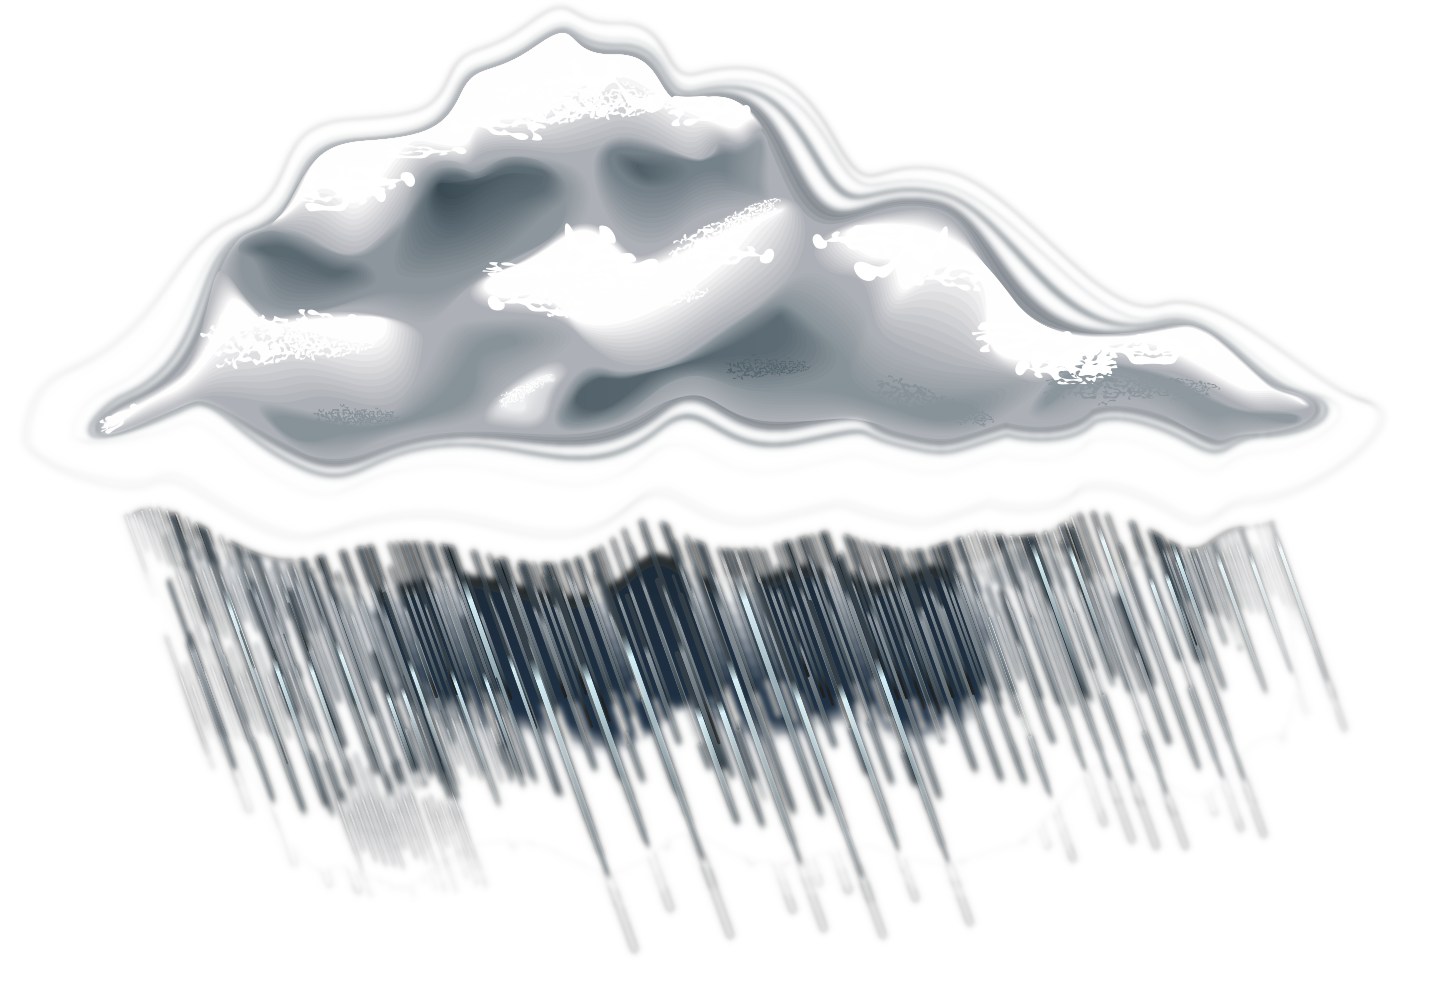
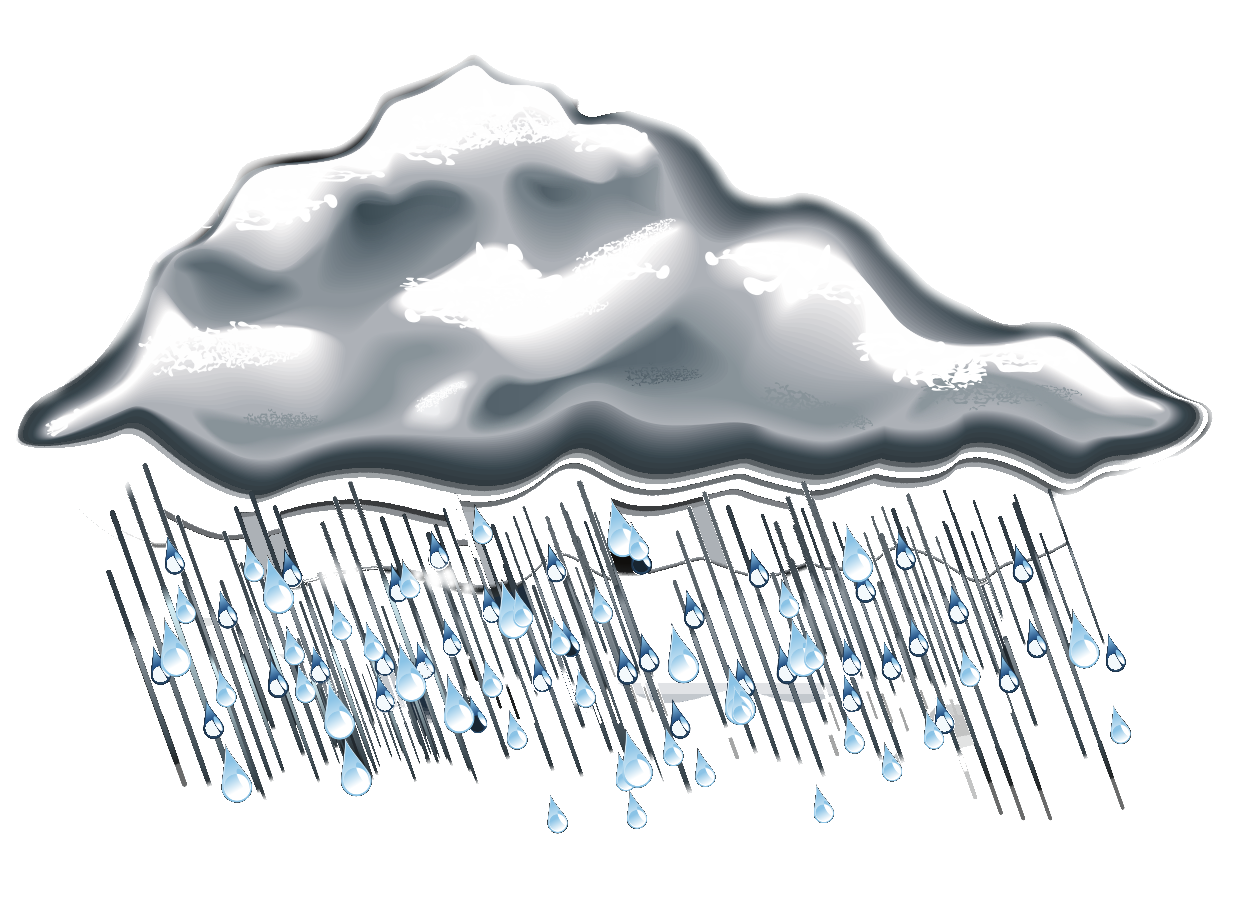
update rainfall and stats_body

diff --git a/index.html b/index.html
@@ -19,6 +19,7 @@
     <section class="weather_stats">
         <div class="stats_header">
             <h2 class="font-24"><span id="location_name">Cameroon</span></h2>
+            <h2>Current weather</h2>
         </div>
 
         <div class="stats_body">
@@ -33,12 +34,12 @@
             </div>
 
             <div class+="stats_illustration">
-                <img id="stats_image" src="/assets/images/daytime/sun_more_cloudy.png">
+                <img id="stats_image" src="/assets/images/daytime/rainfall.png">
             </div>
             <div class="stats_meta_2">
                 <dl>
                     <div class="stats_details">
-                        <dt>cloud cover</dt>
+                        <dt>Cloud cover</dt>
                         <dd><span id="cloud_cover">25</span> %</dd>
                     </div>
                     <div class="stats_details">

diff --git a/assets/css/main.css b/assets/css/main.css
@@ -76,7 +76,7 @@ form.search button:hover {
 
 .weather_stats {
   width: 992px;
-  padding: 1.5rem;
+  padding: 1rem;
   margin: 25px auto 100px auto;
   color: white;
   background: rgba(49, 107, 164, 0.7);
@@ -93,11 +93,9 @@ form.search button:hover {
   grid-template-rows: auto auto auto;
   grid-template-columns: 1fr 1.5fr 1fr;
   grid-gap: 0;
-  text-align: center;
 }
 
 .stats_meta {
-  text-align: left;
   grid-column-start: 1;
   grid-column-end: 2;
 }
